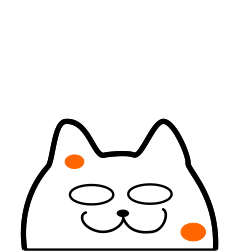
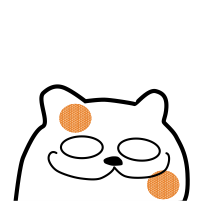
глаза расширяются

Changed region(s): [[0.0597, 0.4179, 0.9552, 1.0]]

diff --git a/keyCat.py b/keyCat.py
@@ -1,7 +1,7 @@
 import sys, os, math
 import win32gui
 from PyQt5.QtWidgets import QApplication, QMainWindow, QLabel
-from PyQt5.QtGui import QPixmap,  QCursor
+from PyQt5.QtGui import QPixmap
 from PyQt5.QtCore import QPropertyAnimation,Qt, QRect, QPoint, QTimer, QThread, pyqtSignal
 from pynput import keyboard,  mouse
 
@@ -15,14 +15,22 @@ def get_taskbar_info():
 class MouseTrackerThread(QThread):
     # Сигнал для передачи координат мыши
     mouse_moved = pyqtSignal(int, int)  # x, y
+    left_clicked = pyqtSignal(int, int, bool)      # Левая кнопка
+   
 
     def run(self):
         # Функция, которая вызывается при движении мыши
         def on_move(x, y):
             self.mouse_moved.emit(x, y)
 
+         # Функция, которая вызывается при нажатии/отпускании кнопки мыши
+        def on_click(x, y, button, pressed):
+            if button == mouse.Button.left:
+                self.left_clicked.emit(x,y,pressed)
+        
+
         # Создаем слушатель мыши
-        with mouse.Listener(on_move=on_move) as listener:
+        with mouse.Listener(on_click=on_click, on_move=on_move) as listener:
             listener.join()
 
 
@@ -30,13 +38,13 @@ class MouseTrackerThread(QThread):
 class TransparentWindow(QMainWindow):
     def __init__(self):
         super().__init__()
-
+        windowSize=200
         # Создаем и запускаем поток для отслеживания мыши
         self.mouse_tracker = MouseTrackerThread()
         self.mouse_tracker.mouse_moved.connect(self.update_mouse_position)
         self.mouse_tracker.start()
 
-
+        self.mouse_tracker.left_clicked.connect(self.handle_left_click)
         # Получаем информацию о панели задач
         taskbar_rect = get_taskbar_info()
         taskbar_y = taskbar_rect[1]
@@ -44,7 +52,7 @@ class TransparentWindow(QMainWindow):
         # Настройки окна
         self.setWindowFlags(Qt.FramelessWindowHint | Qt.WindowStaysOnTopHint)
         self.setAttribute(Qt.WA_TranslucentBackground)
-        self.setGeometry(QRect(1500, taskbar_y-250, 250, 250))  # Размещаем окно над панелью задач
+        self.setGeometry(QRect(1500, taskbar_y-windowSize, windowSize, windowSize))  # Размещаем окно над панелью задач
 
         # Определяем путь к каталогу с данными в зависимости от режима исполнения
         if getattr(sys, 'frozen', False):
@@ -84,7 +92,8 @@ class TransparentWindow(QMainWindow):
         # Создаем 1 глаз
         self.eye_l = QLabel(self)
         self.eye_l.setPixmap(self.eye)
-        self.eye_l.setGeometry(0, 0, 250,250)
+        self.eye_l.setGeometry(0, 0, windowSize,windowSize)
+
         #Анимации для плавного движения глаз
         self.eye_l_animation = QPropertyAnimation(self.eye_l, b"pos")
         self.eye_l_animation.setDuration(200)  # Длительность анимации: 200 мс
@@ -94,58 +103,97 @@ class TransparentWindow(QMainWindow):
          # Создаем 2 глаз
         self.eye_r = QLabel(self)
         self.eye_r.setPixmap(self.eye2)
-        self.eye_r.setGeometry(0, 0, 250,250)
+        self.eye_r.setGeometry(0, 0, windowSize,windowSize)
         self.eye_r_animation = QPropertyAnimation(self.eye_r, b"pos")
         self.eye_r_animation.setDuration(200)  # Длительность анимации: 200 мс
         
 
-
         self.center_l = self.eye_l.geometry().center() # Центр левого глаза
         self.center_r = self.eye_r.geometry().center() # Центр левого глаза
 
-        self.max_offset_x = 6  # Глаза могут двигаться на 50 пикселей от центра
+        self.max_offset_x = 10  # Глаза могут двигаться на 50 пикселей от центра
         self.max_offset_y = 5  # Глаза могут двигаться на 50 пикселей от центра
 
           # Загружаем изображение
         self.label = QLabel(self)
         pixmap = QPixmap("D://py/cat/PET.png") 
-        self.label.setGeometry(0, 0, 250, 250) 
+        self.label.setGeometry(0, 0, windowSize, windowSize) 
         self.label.setPixmap(pixmap)
         self.label.setAlignment(Qt.AlignCenter)
 
         # Флаг для отслеживания состояния клавиши
         self.key_pressed = False
         self.catTap = True
-
+        self.long_tap = False
+        self.is_window_dragging = False
         # Создание слушателя событий клавиатуры
         self.listener = keyboard.Listener(
             on_press=self.on_press,
             on_release=self.on_release
         )
-        self.timer = QTimer(self)
-        self.timer.setInterval(2000)  # 1.5 секунды
-        self.timer.timeout.connect(self.on_timer_out)
-        self.isEyesBig =False
+        #Таймер для установки больших глаз
+        self.bigyeys_timer = QTimer(self)
+        self.bigyeys_timer.setInterval(1000)
+        self.bigyeys_timer.timeout.connect(self.on_timer_out)
+        self.isEyesBig=False
+
+        #Таймер для длительного зажатия на коте
+        self.long_drag_timer = QTimer(self)
+        self.long_drag_timer.setInterval(700)
+        self.long_drag_timer.timeout.connect(self.on_long_drag_timer_out)
+        
         #self.listener.start()
 
+    def handle_left_click(self, x,y,left_pressed):
+        window_rect = self.frameGeometry()
+        if left_pressed:
+            if window_rect.contains(QPoint(x, y)):
+                print("EBATT")
+                self.long_drag_timer.start()
+        else:
+            self.long_tap = False
+            self.is_window_dragging = False
+            self.long_drag_timer.stop()
 
+    def on_long_drag_timer_out(self):
+        self.long_tap = True
+        print("LONG DRAG")
+        self.long_drag_timer.stop()
+        
     def on_timer_out(self):
-        print("SIZE!")
-        self.timer.stop()
+        if self.isEyesBig:
+            self.eye_l.setPixmap(self.eye_big)
+            self.eye_r.setPixmap(self.eye2_big)
+        else:
+            self.eye_l.setPixmap(self.eye)
+            self.eye_r.setPixmap(self.eye2)
+        self.bigyeys_timer.stop()
         
     def update_mouse_position(self, mouse_x, mouse_y):
+
         # Преобразуем глобальные координаты мыши в координаты относительно окна
         mouse_pos = self.mapFromGlobal(QPoint(mouse_x, mouse_y))
 
          # Вычисляем расстояние от мыши до центра окна
         distance = math.sqrt((mouse_pos.x() - self.center_l.x()) ** 2 +
                             (mouse_pos.y() - self.center_l.y()) ** 2)
+        
+        window_rect = self.frameGeometry()
+        if self.long_tap and window_rect.contains(QPoint(mouse_x, mouse_y)):
+            self.is_window_dragging = True
+            print("WINDOW")
+                                                   
+
 
         # Если мышь в пределах 200 пикселей
-        if distance <= 200 and not self.isEyesBig:
-            print('TIMER!')
-            self.timer.start()
-            self.isEyesBig = True
+        if self.isEyesBig:
+            if distance > 200:
+                self.bigyeys_timer.start()
+                self.isEyesBig = False
+        else:
+            if distance <= 200:
+                self.bigyeys_timer.start()
+                self.isEyesBig = True
 
         # Обновляем положение левого глаза
         self.move_eye(self.eye_l, self.center_l, mouse_pos,self.eye_l_animation)
@@ -185,8 +233,6 @@ class TransparentWindow(QMainWindow):
         animation.setStartValue(eye_label.pos())
         animation.setEndValue(new_pos)
         animation.start()
-
-
 
     # Обработка нажатия клавиши
     def on_press(self, key):
